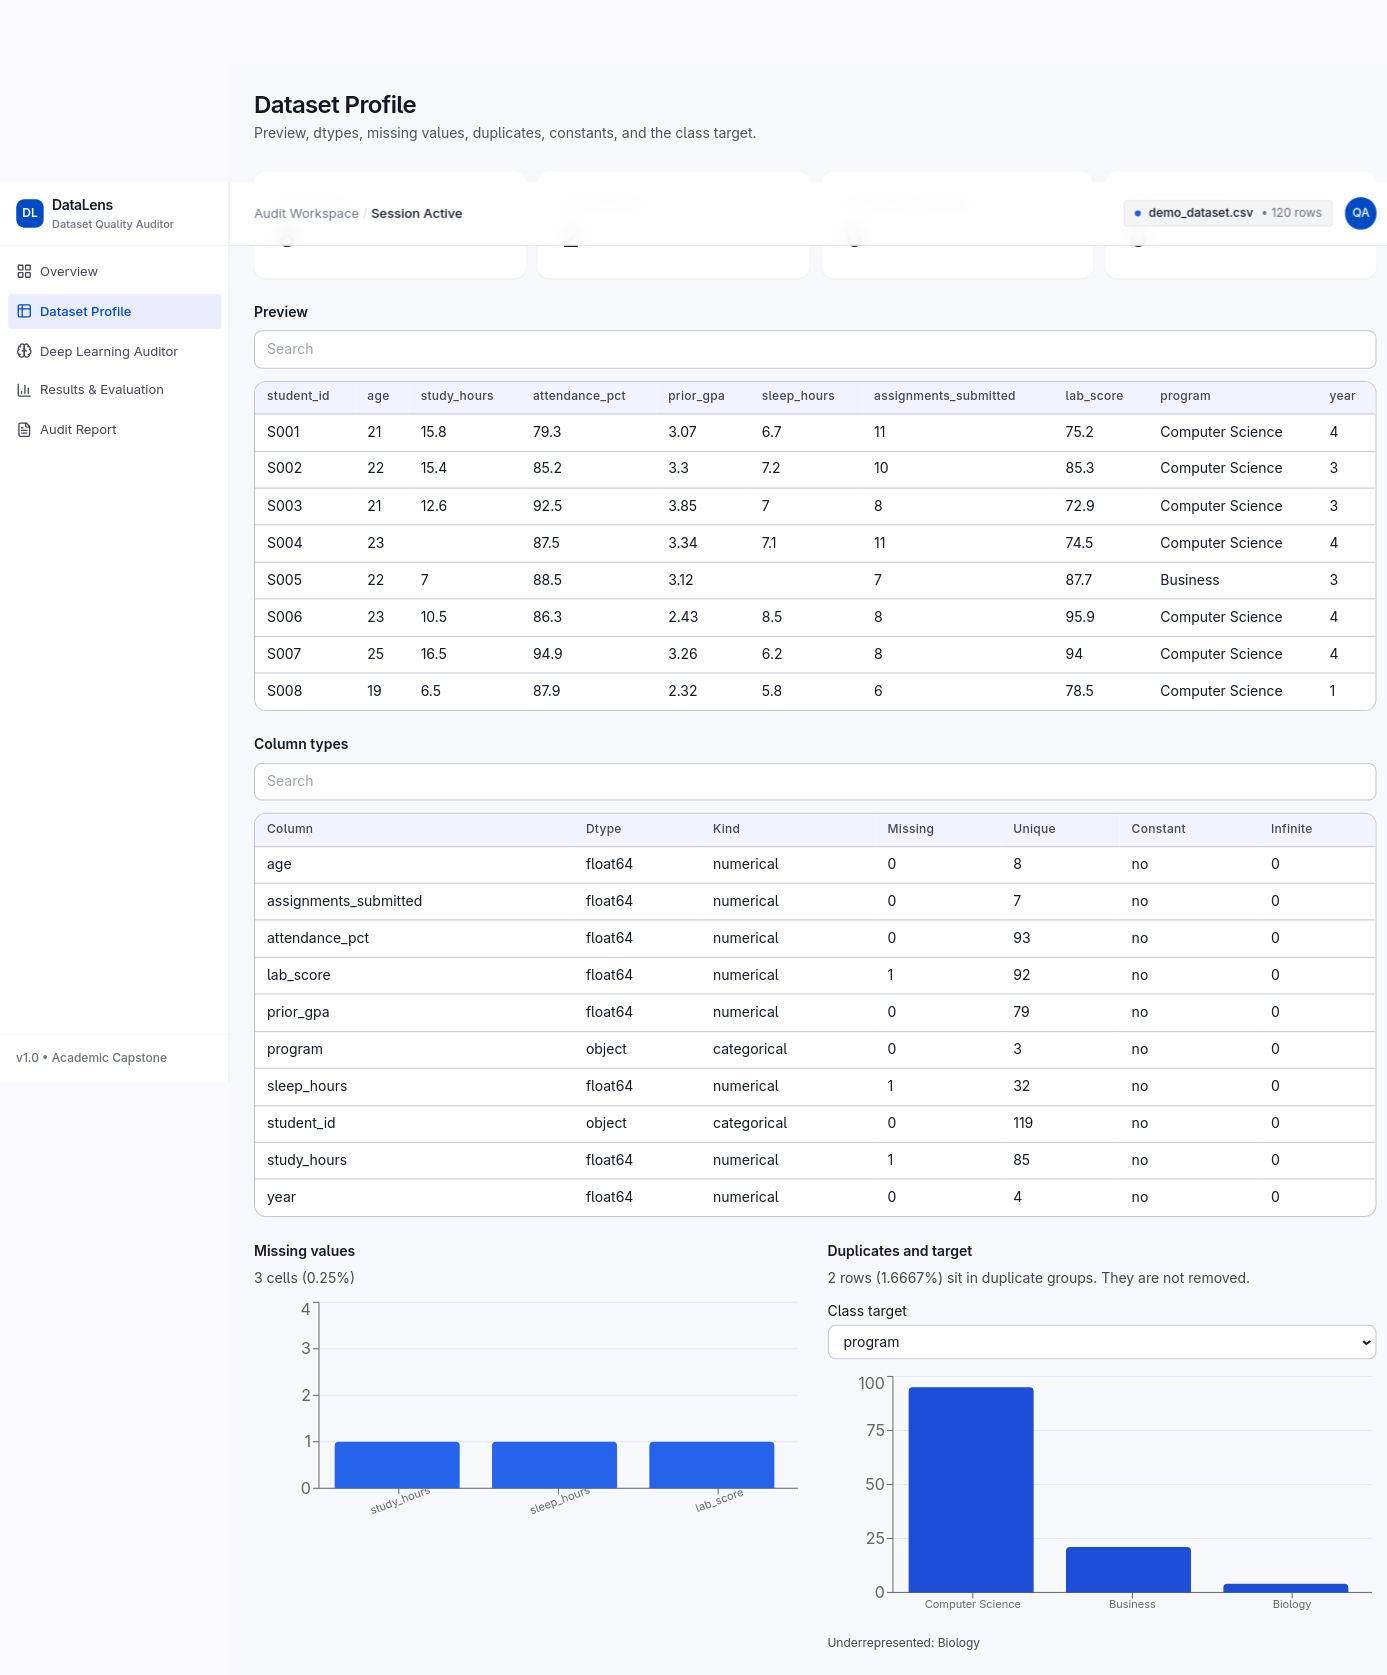
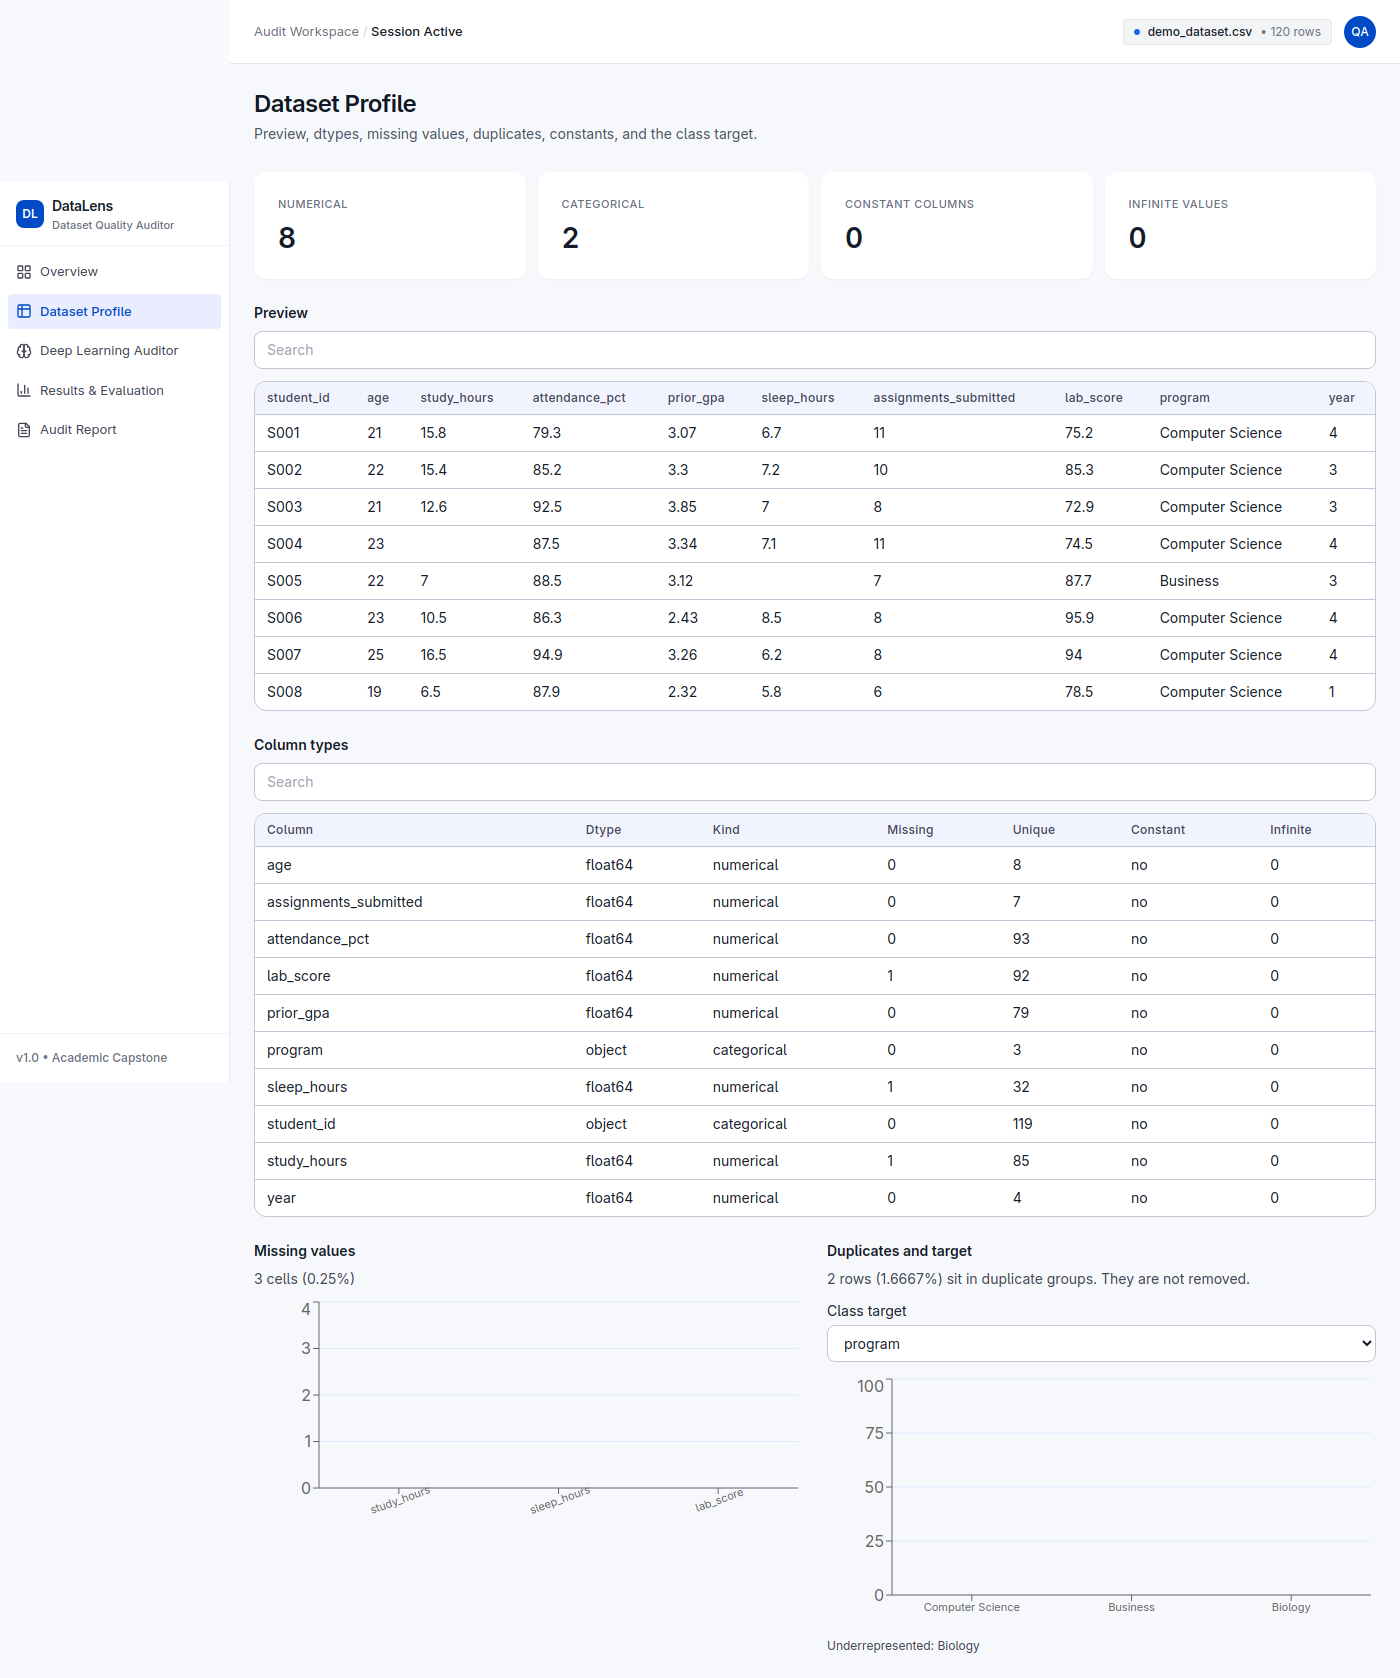
Fix the profile header overlap and replace its screenshot.
The workspace header no longer sticks over the page title. The Dataset Profile image is a fresh capture after a demo audit.

diff --git a/frontend/src/components/Header.jsx b/frontend/src/components/Header.jsx
@@ -1,6 +1,6 @@
 export default function Header({ title, subtitle, dataset, busy, menu }) {
   return (
-    <header className="sticky top-0 z-20 flex h-16 items-center justify-between gap-3 border-b border-[#e5e7eb] bg-white/90 px-4 backdrop-blur md:px-6">
+    <header className="relative z-20 flex h-16 shrink-0 items-center justify-between gap-3 border-b border-[#e5e7eb] bg-white px-4 md:px-6">
       <div className="flex min-w-0 items-center gap-3">
         {menu}
         <div className="min-w-0">
